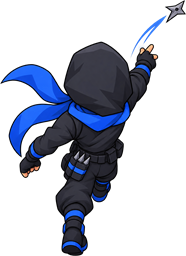
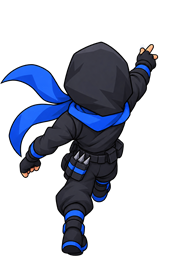
30번 팀 배틀: 암살자 앞모습 방향·연발 공격 그림 유지, 힐러 앞모습 크기, 뒷모습 표창 그림 삭제
- 암살자 앞모습 대기·걷기 그림의 원래 방향을 왼쪽으로 바로잡아 좌우 전환이 이동 방향과 맞게
- 연발 공격은 첫 발 때만 공격 시각을 기록하고 마지막 발까지 공격 그림 유지
- 힐러 앞모습 그림을 뒷모습 몸 크기에 맞춰 줄임
- 암살자 뒷모습 공격 그림의 작은 표창·궤적 지움

Changed region(s): [[0.7258, 0.0, 1.0, 0.1875], [0.6989, 0.1875, 0.7258, 0.2188]]

diff --git a/30.team-battle-arena.html b/30.team-battle-arena.html
@@ -389,7 +389,7 @@
       front: { idle: [88, true], atk: [90, false], ult: [104, false] } },
     healer: { pre: "hl",
       back:  { idle: [84, true], walk: [84, true], atk: [90, true], ult: [112, true] },
-      front: { idle: [90, false], walk: [88, false], atk: [90, false], ult: [112, true] } },
+      front: { idle: [69, false], walk: [68, false], atk: [77, false], ult: [100, true] } },   // 앞모습 그림은 몸이 크게 그려져 있어 뒷모습 크기에 맞춤
     /* 탱커: 뒷모습 대기·걷기는 망치를 왼쪽 어깨에 멤, 공격은 뒷모습 한 벌뿐(앞모습 공격은 대기 그림 + 휘두르기 효과). 궁극기는 포즈 대신 오라 */
     tank: { pre: "tk",
       back:  { idle: [100, false], walk: [100, false], atk: [108, true] },
@@ -397,7 +397,7 @@
     /* 암살자: 궁극기 그림은 연기 회오리까지 포함이라 조금 큼 */
     assassin: { pre: "as",
       back:  { idle: [88, true], walk: [88, true], atk: [92, true], ult: [104, true] },
-      front: { idle: [88, true], walk: [90, true], atk: [90, false], ult: [104, true] } }
+      front: { idle: [88, false], walk: [90, false], atk: [90, false], ult: [104, true] } }   // 앞모습 대기·걷기는 스카프가 오른쪽으로 날림 = 왼쪽을 향함
   };
   /* 투사체가 나오는 곳(총구·지팡이 보석·손끝): 원래 그림 안의 위치(가로·세로 비율 0~1). 공격(사격수 궁극기는 궁극기) 그림 기준 */
   var TIP = {
@@ -1079,7 +1079,7 @@
               pr:skill ? ULT.mkPr : c.pr, range: skill ? ULT.mkRange : c.range, createdAt: now() };
     var ref = room.ref.child("projectiles").push(d);
     setTimeout(function () { ref.remove(); }, d.range / sp * 1000 + 700);
-    E.atkAt = now();
+    if (skill || !E.volley || E.volley.left === c.shots) E.atkAt = now();   // 연발은 첫 발 때만 → 공격 그림이 끊기지 않고 이어짐
     if (hear(E)) sfx(E.char === "healer" ? "orb" : (E.char === "assassin" ? "star" : "shoot"));
   }
   function hear(E) { return ME && hyp(E.x - ME.x, E.y - ME.y) < 700; }
@@ -1511,10 +1511,15 @@
   function V(x, y) { return flip() ? { x: MW - x, y: MH - y } : { x: x, y: y }; }   // 월드 → 내 화면 방향(블루는 180° 회전)
   function viewAngle(a) { return flip() ? a + Math.PI : a; }
 
+  /* 공격 그림 유지 시간: 망치는 조금 더 길게, 연발(사격수 2발·암살자 3발)은 마지막 발까지 */
+  function atkPoseMs(k) {
+    var c = CHARS[k];
+    return ATK_POSE_MS * (k === "tank" ? 2 : 1) + (c.shots > 1 ? (c.shots - 1) * c.gap : 0);
+  }
   function drawSprite(E, alpha, t) {
     var p = V(E.x, E.y), pose = "idle", walking = false;
     if (E.ultUntil > t && E.char !== "tank") pose = "ult";
-    else if (t >= E.atkAt && t - E.atkAt < ATK_POSE_MS * (E.char === "tank" ? 2 : 1)) pose = "atk";   // 망치는 조금 더 길게
+    else if (t >= E.atkAt && t - E.atkAt < atkPoseMs(E.char)) pose = "atk";
     else if (E.mv && E.alive) { walking = true; pose = Math.floor(t / 200) % 2 ? "walk" : "idle"; }
     /* 공격·궁극기·조준 중엔 조준 방향, 그 밖엔 마지막 이동 방향(화면에서 위로 가면 뒷모습, 아래로 오면 앞모습) */
     var useMove = FACE_BY_MOVE && pose !== "atk" && pose !== "ult" && E.moveAng != null && E.moveAt > E.atkAt &&
